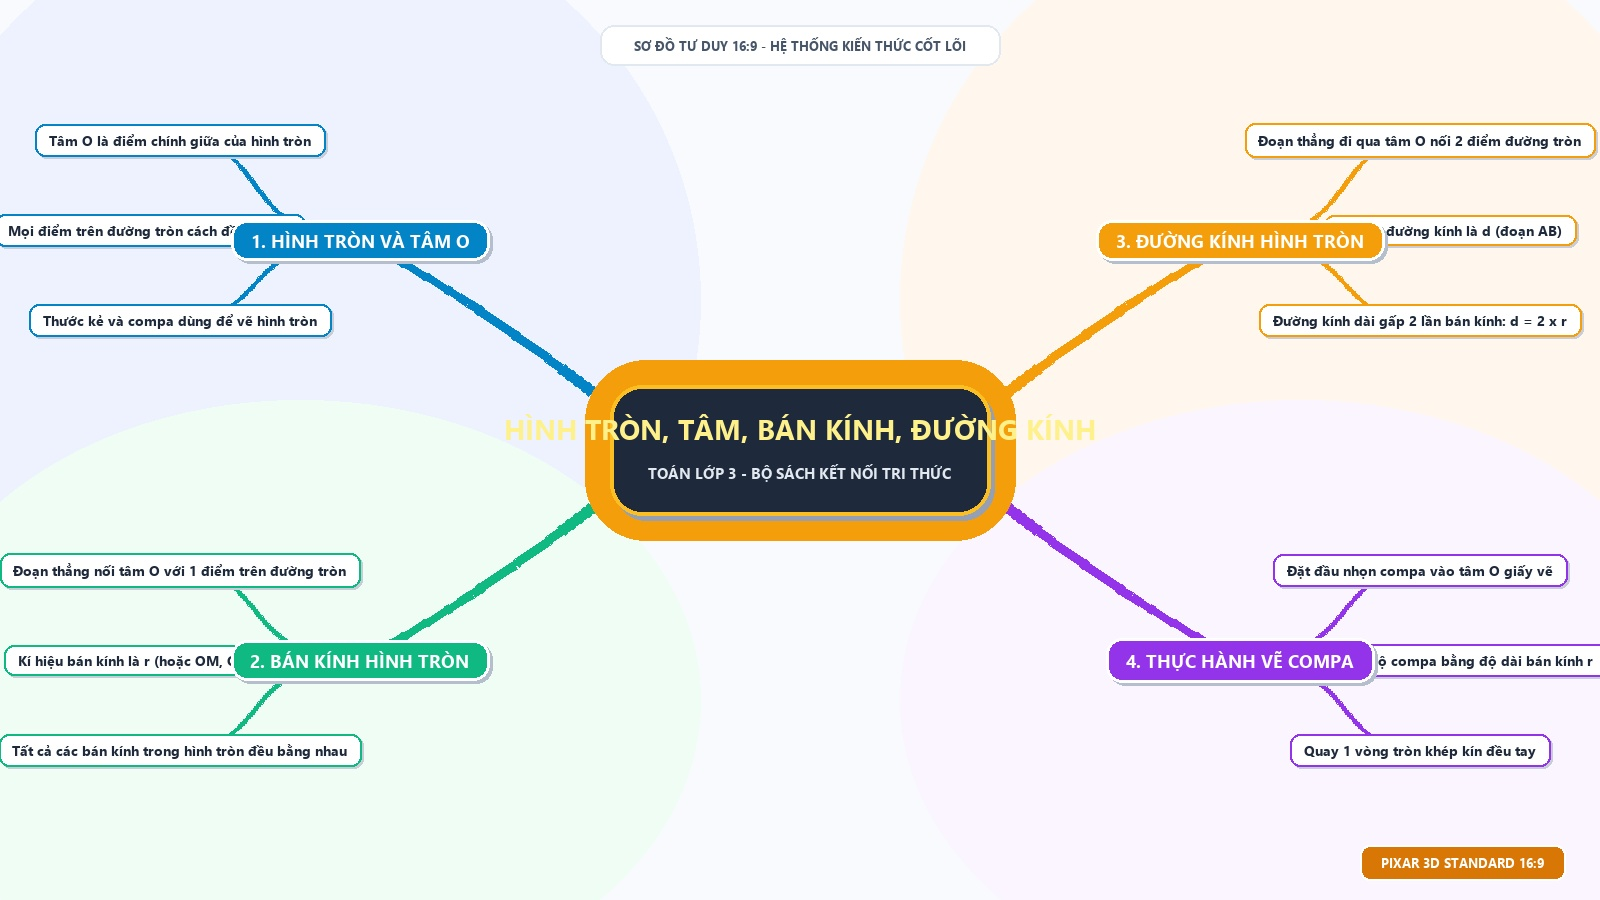
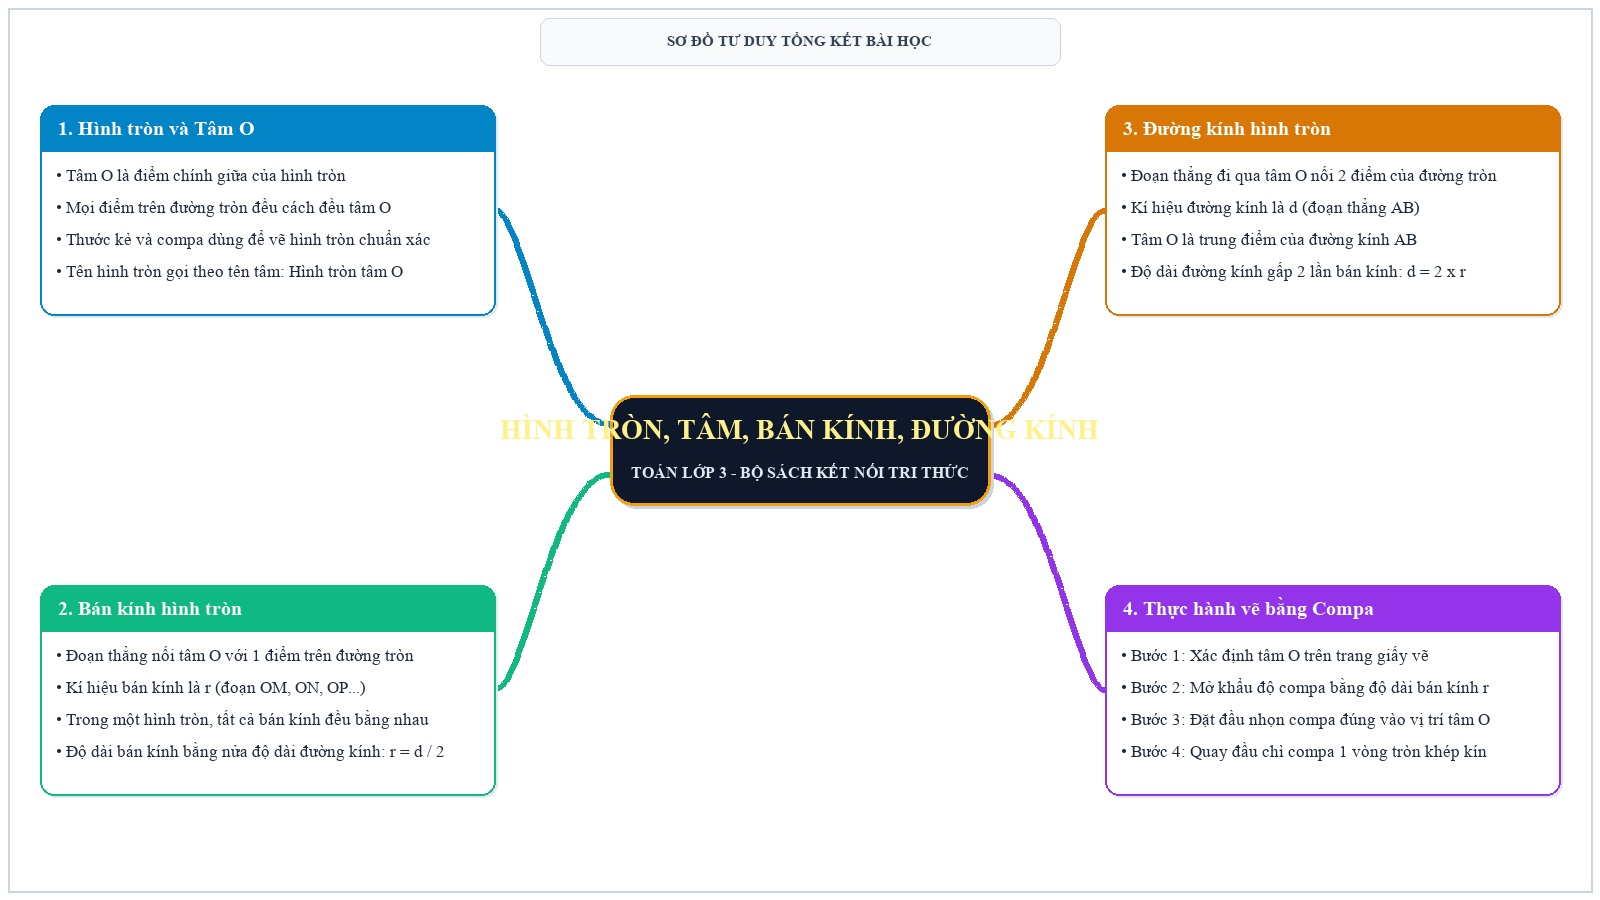
feat: Chuyen toan bo chu trong so do tu duy sang phong chu Times New Roman va tang co chu to ro

Changed region(s): [[0.0, 0.0933, 1.0, 0.9022], [0.3438, 0.0, 0.6562, 0.0622], [0.8438, 0.9333, 1.0, 0.9956]]

diff --git a/src/components/PixarMindmapView.tsx b/src/components/PixarMindmapView.tsx
@@ -22,19 +22,19 @@ export const PixarMindmapView: React.FC<PixarMindmapViewProps> = ({ soDoTuDuy })
   };
 
   return (
-    <div className="my-3 rounded-xl border border-sky-200 bg-sky-50/50 p-3 sm:p-3.5 shadow-sm transition-all">
-      {/* Header bar - Chuẩn mực giáo dục, thanh lịch */}
+    <div className="my-3 rounded-xl border border-sky-200 bg-sky-50/50 p-3 sm:p-3.5 shadow-sm transition-all" style={{ fontFamily: '"Times New Roman", Times, serif' }}>
+      {/* Header bar - Chuẩn mực giáo dục Times New Roman */}
       <div className="flex flex-wrap items-center justify-between gap-2 pb-2 mb-2 border-b border-sky-100">
         <div className="flex items-center gap-2">
           <div className="w-7 h-7 rounded-lg bg-sky-600 text-white flex items-center justify-center shadow-xs">
             <Network className="w-4 h-4" />
           </div>
           <div className="flex items-center gap-1.5 flex-wrap">
-            <span className="font-sans font-bold text-[11pt] sm:text-[11.5pt] text-slate-800 uppercase tracking-tight">
+            <span className="font-bold text-[12pt] sm:text-[13pt] text-slate-800 uppercase tracking-tight">
               Sơ đồ tư duy tổng kết toàn bài
             </span>
-            <span className="px-2 py-0.5 rounded-full text-[8pt] font-semibold bg-sky-100 text-sky-800 border border-sky-200">
-              Chuẩn 16:9
+            <span className="px-2.5 py-0.5 rounded-full text-[9pt] font-semibold bg-sky-100 text-sky-800 border border-sky-200">
+              Times New Roman - Chuẩn 16:9
             </span>
           </div>
         </div>
